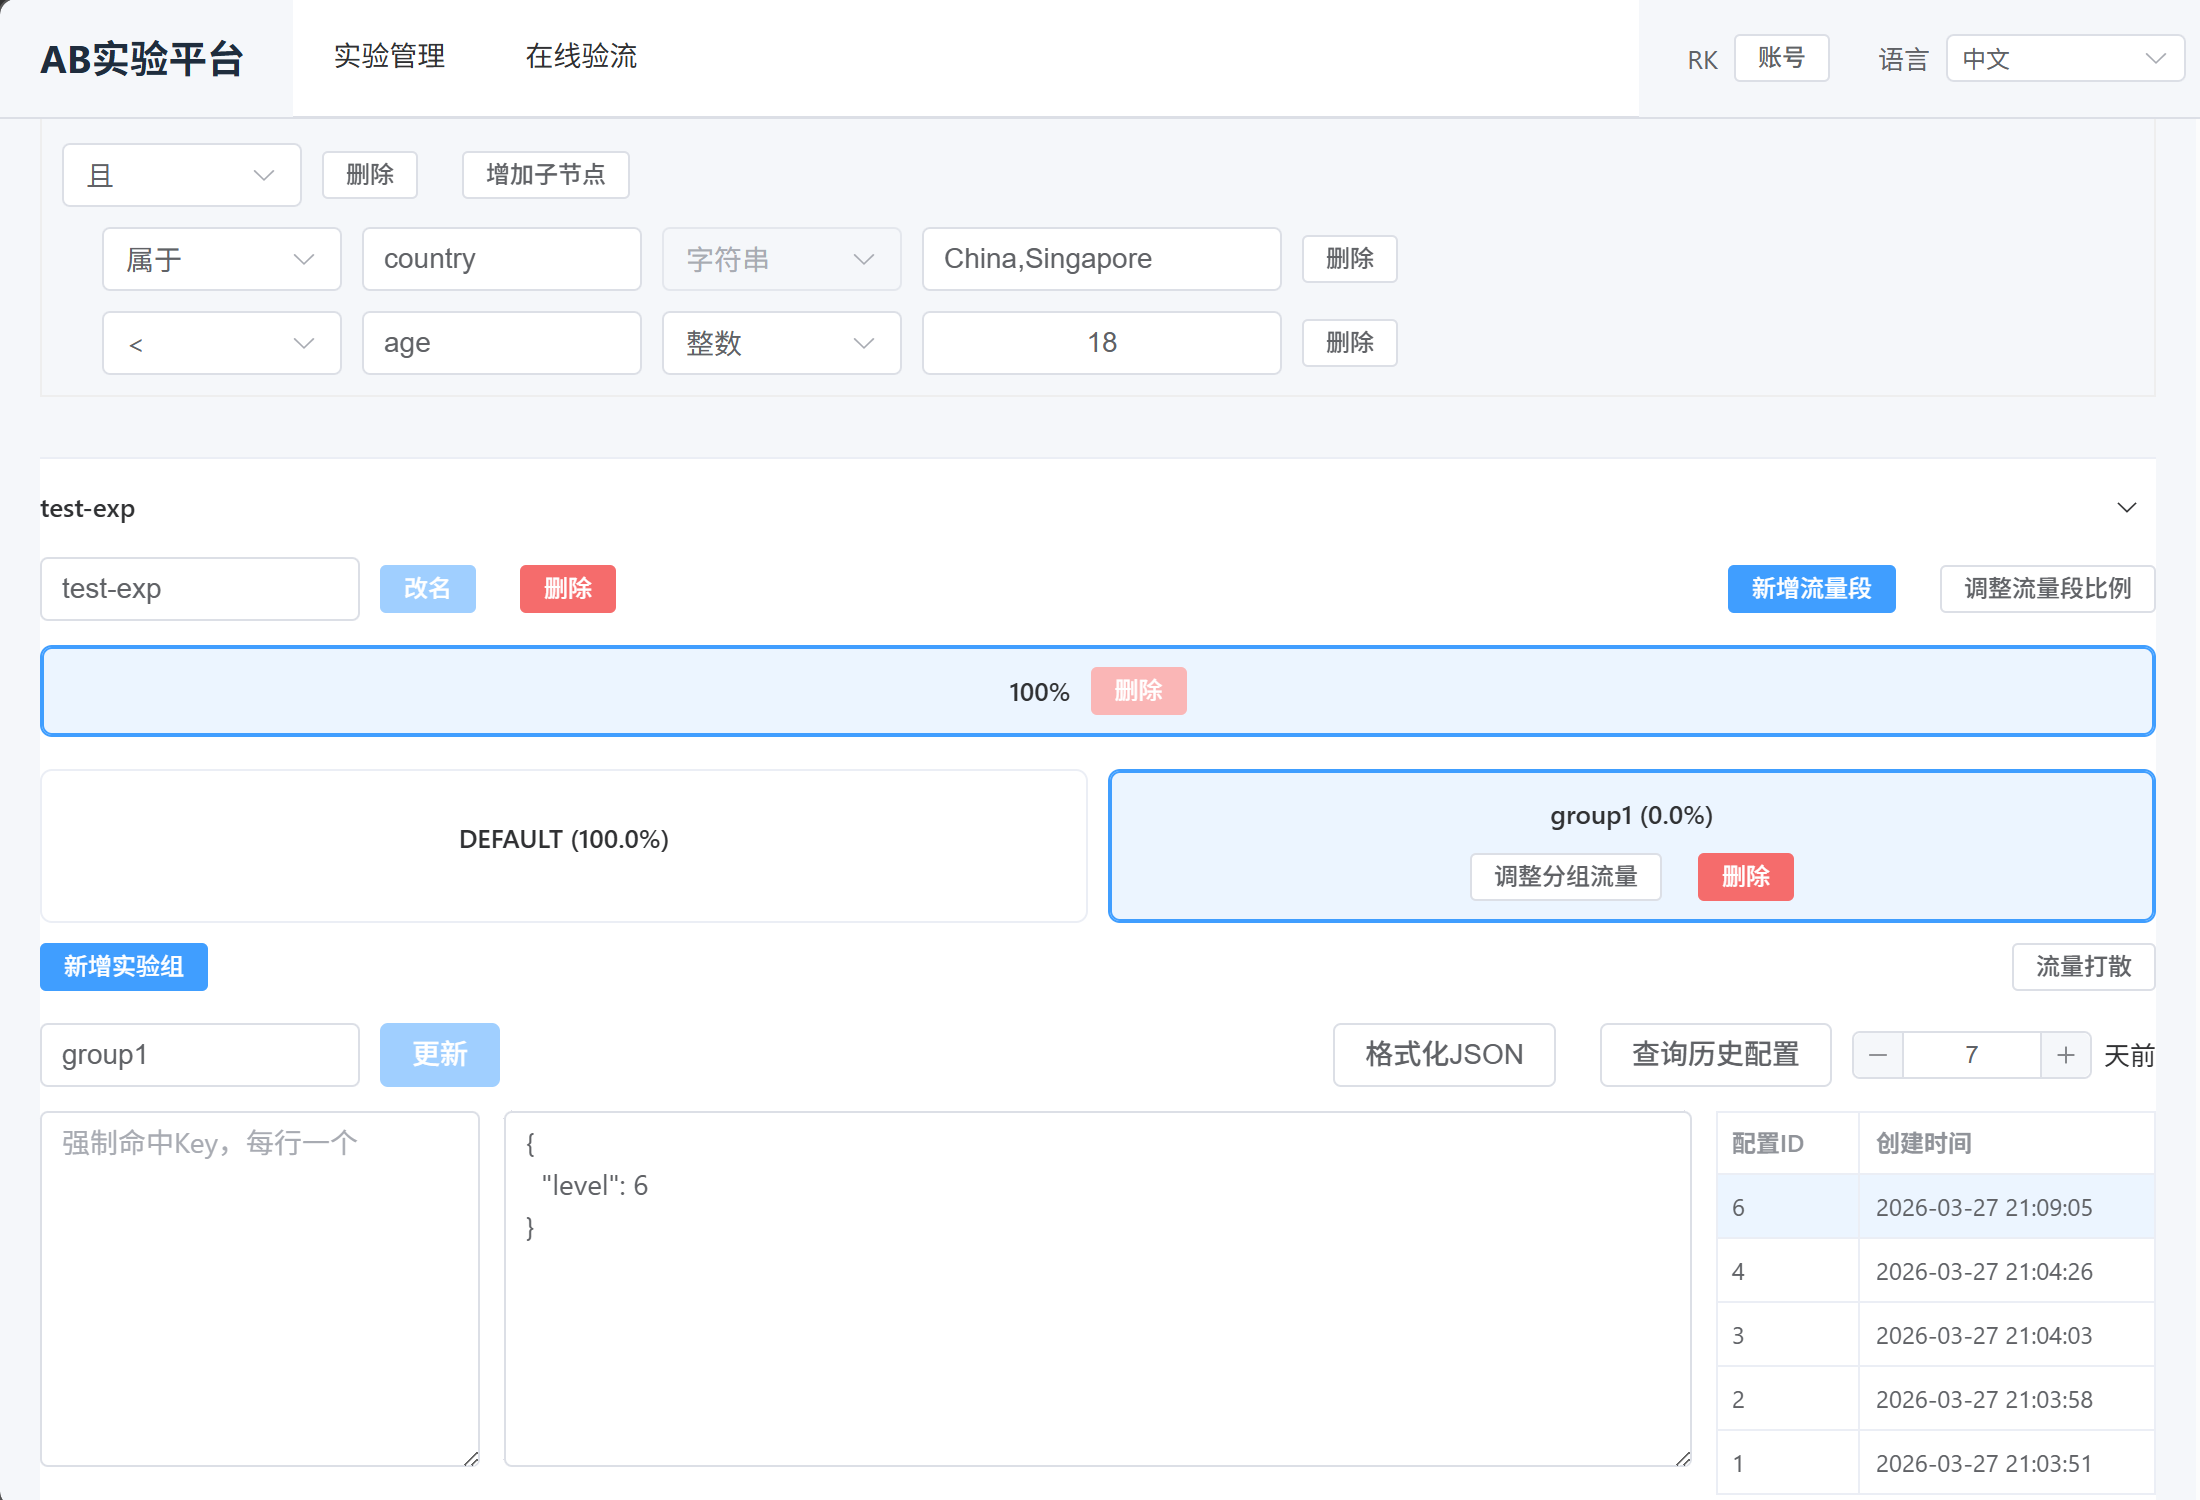
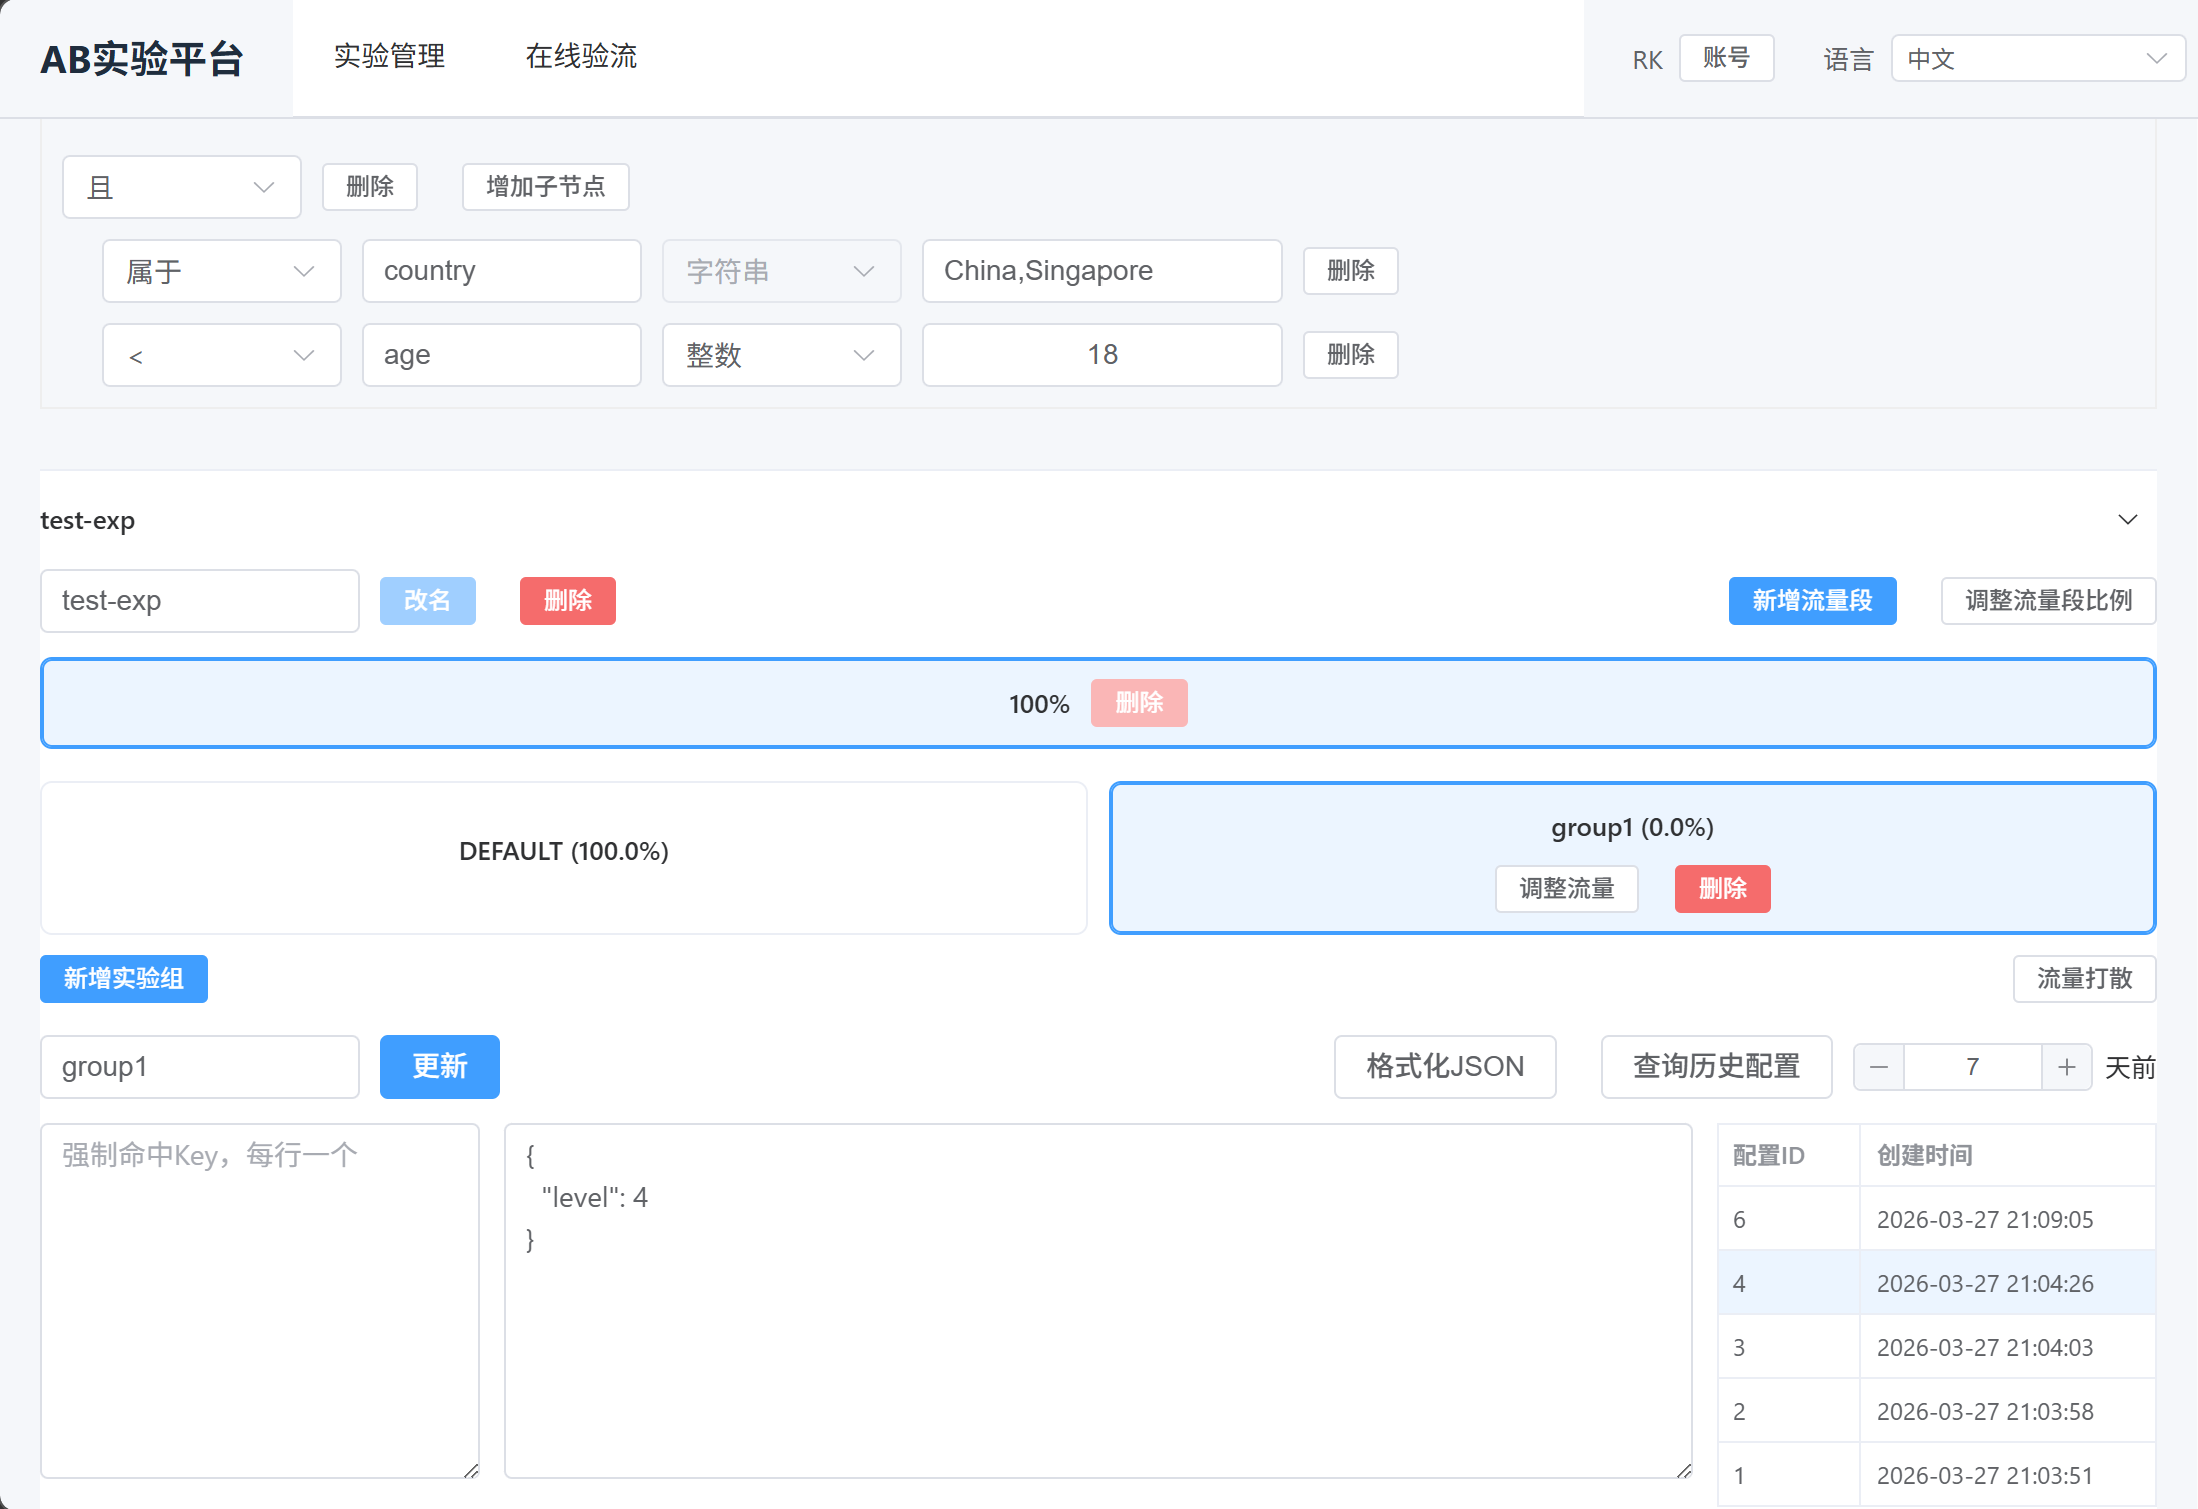
fix text

diff --git a/ui/src/i18n.ts b/ui/src/i18n.ts
@@ -260,7 +260,7 @@ const messages: Record<Locale, MessageTree> = {
       sharePercent: '流量占比'
     },
     group: {
-      rebalance: '调整分组流量',
+      rebalance: '调整流量',
       createGroup: '新增实验组',
       shuffle: '流量打散',
       groupName: '实验组名称',
